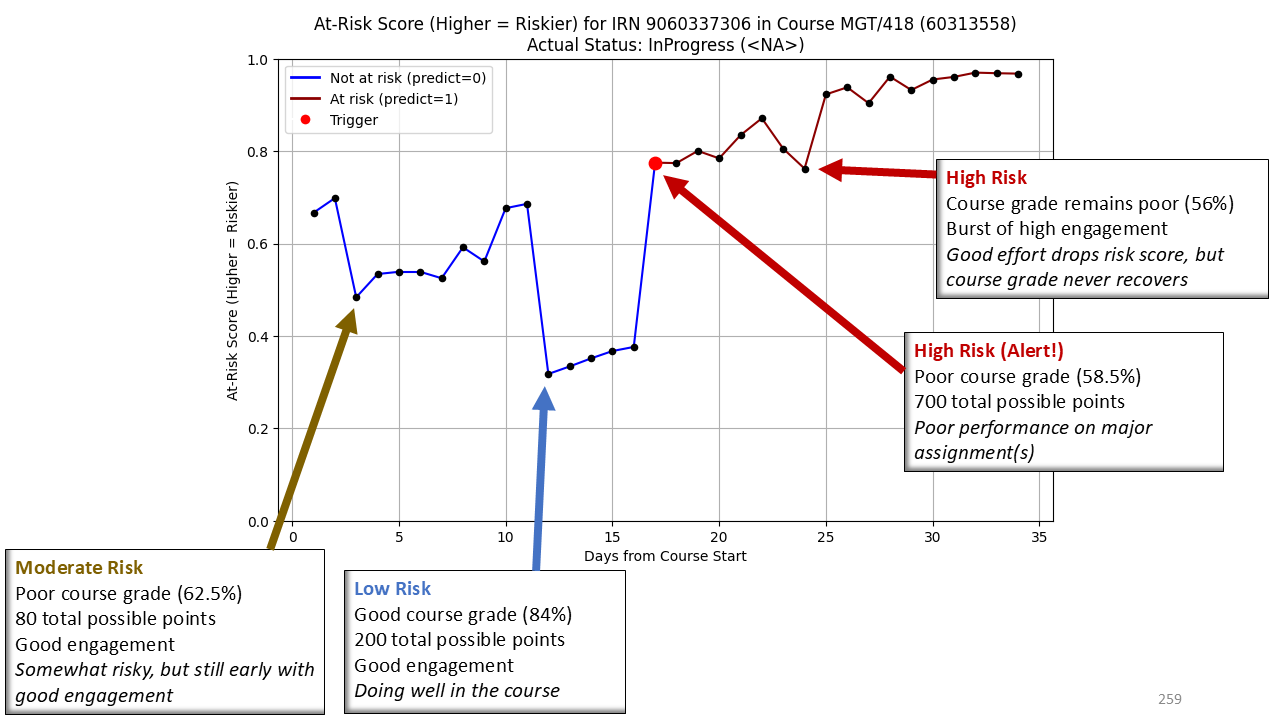
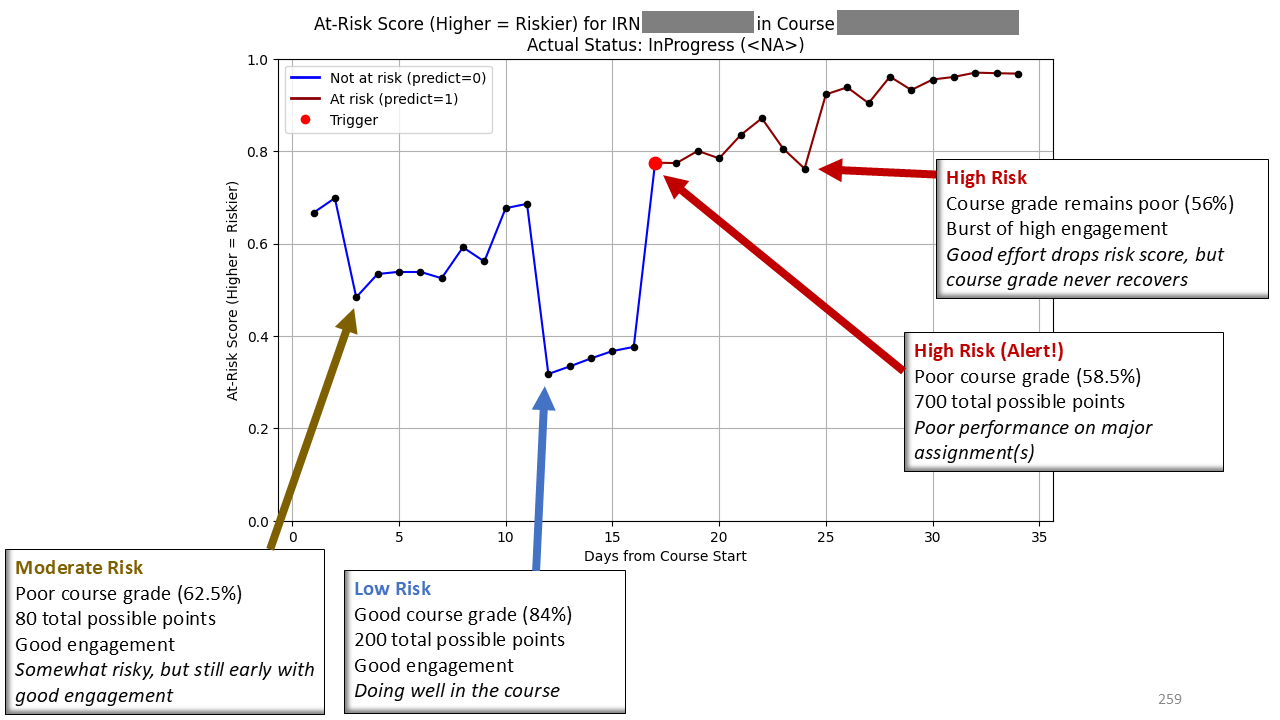
bFusion image fix

Changed region(s): [[0.6562, 0.0, 0.8125, 0.0611], [0.5, 0.0, 0.5938, 0.0611]]

diff --git a/bfusion.md b/bfusion.md
@@ -6,6 +6,8 @@ Multi-stage factor analysis and gradient boosting model to predict student risk 
 
 *Model development in progress; ready for pilot program*
 
+<img src="images/bfusion-example.png" alt="bFusion Behavior Model sample student prediction" width="60%">
+
 ### Skills
 - Programming (Python, Docker)
 - Statistical and numerical analysis (Pandas, NumPy)